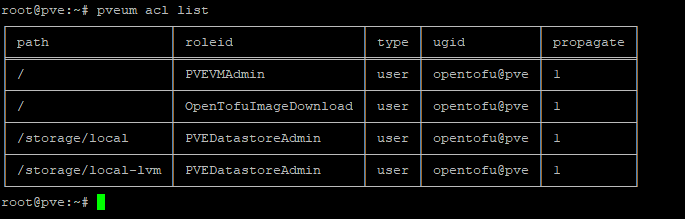
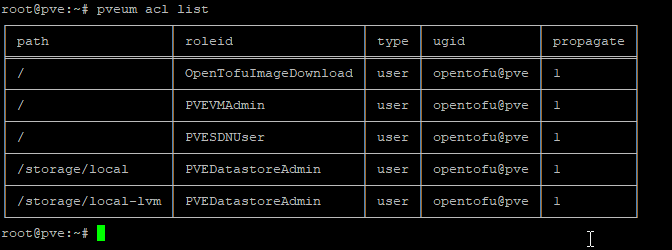
updated docu

Changed region(s): [[0.0, 0.0, 0.9688, 0.9863]]

diff --git a/stage02/docs/Stage-02 Automated Installation.md b/stage02/docs/Stage-02 Automated Installation.md
@@ -14,39 +14,39 @@
 
 Update the machine:
 
-``` bash
+```bash
 sudo apt update
 sudo apt upgrade
 ```
 
 Install unzip, cosign, curl and git:
 
-``` bash
+```bash
 sudo apt install unzip cosign curl git
 ```
 
 Install the Talos control binary:
 
-``` bash
+```bash
 curl -sL https://talos.dev/install | sh
 ```
 
 Download kubectl:
 
-``` bash
+```bash
 curl -LO "https://dl.k8s.io/release/$(curl -L -s https://dl.k8s.io/release/stable.txt)/bin/linux/amd64/kubectl"
 ```
 
 Make the binary executable and move it to `/usr/local/bin`:
 
-``` bash
+```bash
 sudo install -o root -g root -m 0755 kubectl /usr/local/bin/kubectl
 rm kubectl
 ```
 
 Install Helm:
 
-``` bash
+```bash
 curl -fsSL -o get_helm.sh https://raw.githubusercontent.com/helm/helm/main/scripts/get-helm-4
 chmod 700 get_helm.sh
 ./get_helm.sh
@@ -55,7 +55,7 @@ rm get_helm.sh
 
 Install Cilium CLI:
 
-``` bash
+```bash
 CILIUM_CLI_VERSION=$(curl -s https://raw.githubusercontent.com/cilium/cilium-cli/main/stable.txt)
 CLI_ARCH=amd64
 curl -L --fail --remote-name-all https://github.com/cilium/cilium-cli/releases/download/${CILIUM_CLI_VERSION}/cilium-linux-${CLI_ARCH}.tar.gz{,.sha256sum}
@@ -66,13 +66,13 @@ rm cilium-linux-${CLI_ARCH}.tar.gz{,.sha256sum}
 
 Install OpenTofu:
 
-``` bash
+```bash
 curl --proto '=https' --tlsv1.2 -fsSL https://get.opentofu.org/install-opentofu.sh -o install-opentofu.sh
 ```
 
-Inspect the script, then:
+Inspect the script.
 
-``` bash
+```bash
 chmod +x install-opentofu.sh
 ./install-opentofu.sh --install-method standalone
 rm -f install-opentofu.sh
@@ -84,21 +84,21 @@ Log into the Proxmox node as root via SSH.
 
 Create the Proxmox API user:
 
-``` bash
+```bash
 pveum user add opentofu@pve --comment "OpenTofu automation"
 ```
 
 Create the supplemental role:
 
-``` bash
+```bash
 pveum role add OpenTofuImageDownload -privs "Sys.Audit Sys.Modify Datastore.AllocateTemplate"
 ```
 
-Assign the roles, assuming the datastores are named `local` and
-`local-lvm`:
+Assign the roles, assuming the datastores are named `local` and `local-lvm`:
 
-``` bash
+```bash
 pveum aclmod / -user opentofu@pve -role PVEVMAdmin
+pveum aclmod / -user opentofu@pve -role PVESDNUser
 pveum aclmod / -user opentofu@pve -role OpenTofuImageDownload
 pveum aclmod /storage/local -user opentofu@pve -role PVEDatastoreAdmin
 pveum aclmod /storage/local-lvm -user opentofu@pve -role PVEDatastoreAdmin
@@ -106,175 +106,156 @@ pveum aclmod /storage/local-lvm -user opentofu@pve -role PVEDatastoreAdmin
 
 Check the ACLs:
 
-``` bash
+```bash
 pveum acl list
 ```
 
-![Proxmox ACL list showing the OpenTofu roles and datastore
-permissions](images/proxmox-acl-list.png)
+![Proxmox ACL list showing the OpenTofu user roles](images/proxmox-acl-list.png)
 
 Create the API token:
 
-``` bash
+```bash
 pveum user token add opentofu@pve opentofu --privsep 0
 ```
 
-Save the returned token secret. With `--privsep 0`, the token uses the
-permissions of its backing user.
+Save the returned token secret. With `--privsep 0`, the token uses the permissions of its backing user.
 
 ![Proxmox API token creation output](images/proxmox-api-token.png)
 
-Create a separate Linux/PAM account on every Proxmox node on which the
-provider may perform SSH operations:
+Create a separate Linux/PAM account on every Proxmox node on which the provider may perform SSH operations:
 
-``` bash
+```bash
 useradd --create-home --shell /bin/bash opentofu
 ```
 
 Install sudo:
 
-``` bash
+```bash
 apt update
 apt install sudo
 ```
 
 On the **deployment machine**, generate the SSH key:
 
-``` bash
+```bash
 ssh-keygen -t ed25519 -a 100 -f ~/.ssh/proxmox_opentofu -C "opentofu-proxmox"
 ```
 
 Then on each Proxmox node:
 
-``` bash
+```bash
 install -d -m 700 -o opentofu -g opentofu /home/opentofu/.ssh
 ```
 
 Put the contents of:
 
-``` text
+```text
 ~/.ssh/proxmox_opentofu.pub
 ```
 
 from the deployment machine into:
 
-``` text
+```text
 /home/opentofu/.ssh/authorized_keys
 ```
 
 Set the ownership and permissions explicitly:
 
-``` bash
+```bash
 chown opentofu:opentofu /home/opentofu/.ssh/authorized_keys
 chmod 600 /home/opentofu/.ssh/authorized_keys
 ```
 
 Add user to sudoers:
 
-``` bash
+```bash
 visudo -f /etc/sudoers.d/opentofu
 ```
 
 Add:
 
-``` text
+```text
 opentofu ALL=(root) NOPASSWD: /usr/sbin/pvesm
 opentofu ALL=(root) NOPASSWD: /usr/sbin/qm
 ```
 
 Set permissions:
 
-``` bash
+```bash
 chmod 0440 /etc/sudoers.d/opentofu
 visudo --check
 ```
 
-![Successful sudoers validation](images/sudoers-validation.png)
+![Successful visudo validation](images/sudoers-validation.png)
 
 On the deployment machine, start an SSH agent and load the key:
 
-``` bash
+```bash
 eval "$(ssh-agent -s)"
 ssh-add ~/.ssh/proxmox_opentofu
 ```
 
-![SSH agent started and Proxmox OpenTofu key
-loaded](images/ssh-agent-key-loaded.png)
+![SSH agent with the Proxmox OpenTofu key loaded](images/ssh-agent-key-loaded.png)
 
 Test normal SSH:
 
-``` bash
+```bash
 ssh opentofu@192.168.200.53
 ```
 
-![Successful SSH connection to the Proxmox
-node](images/proxmox-ssh-test.png)
+![Successful SSH login to the Proxmox node](images/proxmox-ssh-login.png)
 
 Exit, then test the exact passwordless sudo behavior the provider needs:
 
-``` bash
+```bash
 ssh opentofu@192.168.200.53 sudo pvesm apiinfo
 ```
 
-![Successful passwordless pvesm API
-test](images/passwordless-pvesm-test.png)
+![Successful passwordless pvesm API test](images/passwordless-pvesm-test.png)
 
 ## Run the automation
 
-The infrastructure is split into independently managed root modules with
-separate state files:
+The infrastructure is split into independently managed root modules with separate state files:
 
 - `image/` downloads and owns the Talos image in Proxmox.
-- `vms/` creates Talos VMs and reads the image file ID from
-  `image/terraform.tfstate`.
-- `talos/` configures and bootstraps Talos, then produces the Kubernetes
-  credentials.
-- `cilium/` installs Cilium with Helm and waits for the complete cluster
-  to become healthy.
-- `cilium-config/` configures the Cilium load-balancer IP pool and L2
-  announcements.
+- `vms/` creates Talos VMs and reads the image file ID from `image/terraform.tfstate`.
+- `talos/` configures and bootstraps Talos, then produces the Kubernetes credentials.
+- `cilium/` installs Cilium with Helm and waits for the complete cluster to become healthy.
+- `cilium-config/` configures the Cilium load-balancer IP pool and L2 announcements.
 
-Destroying one root does not automatically destroy resources owned by
-another root.
+Destroying one root does not automatically destroy resources owned by another root.
 
 ### Clone repo
 
-``` bash
+```bash
 git clone https://github.com/johannes-kuhfuss/shost.git
 ```
 
 ### Credentials
 
-The image and VM roots use the provider-native `PROXMOX_VE_API_TOKEN`
-environment variable. The VM root also uses the local SSH agent with the
-Linux user configured by `proxmox_ssh_username`.
+The image and VM roots use the provider-native `PROXMOX_VE_API_TOKEN` environment variable. The VM root also uses the local SSH agent with the Linux user configured by `proxmox_ssh_username`.
 
-Source the environment helper from the repository root. It securely prompts for
-the full API token when `PROXMOX_VE_API_TOKEN` is not already set, starts an SSH
-agent when needed, and loads the deployment key:
+Edit the setup script and add your Proxmox token, then execute the script:
 
-``` bash
+```bash
 source stage02/infra/scripts/setup-opentofu-env.sh
 ```
-
-The provider does not read `~/.ssh/config`.
 
 ### Configuration
 
 Go to the base folder:
 
-``` bash
+```bash
 cd stage02/infra/opentofu/
 ```
 
-Copy any missing variable files from their examples. Existing variable files
-are left unchanged:
+Copy the example files using the script:
 
-``` bash
+```bash
 ../scripts/copy-opentofu-tfvars.sh
 ```
 
-Edit them and fill in the correct values.
+Edit the files (`terraform.tfvars`) and fill in the correct values.
 
 ### Apply
 
@@ -282,27 +263,15 @@ Initialize and apply the roots in dependency order.
 
 Download the image first:
 
-``` bash
+```bash
 tofu -chdir=image init
-```
-
-![Successful OpenTofu initialization of the image
-root](images/opentofu-image-init.png)
-
-``` bash
 tofu -chdir=image plan
-```
-
-![OpenTofu plan for creating the Talos
-image](images/opentofu-image-plan.png)
-
-``` bash
 tofu -chdir=image apply
 ```
 
 Create the VMs:
 
-``` bash
+```bash
 tofu -chdir=vms init
 tofu -chdir=vms plan
 tofu -chdir=vms apply
@@ -310,7 +279,7 @@ tofu -chdir=vms apply
 
 Install Talos:
 
-``` bash
+```bash
 tofu -chdir=talos init
 tofu -chdir=talos plan
 tofu -chdir=talos apply
@@ -318,7 +287,7 @@ tofu -chdir=talos apply
 
 Install Cilium:
 
-``` bash
+```bash
 tofu -chdir=cilium init
 tofu -chdir=cilium plan
 tofu -chdir=cilium apply
@@ -326,7 +295,7 @@ tofu -chdir=cilium apply
 
 Configure Cilium:
 
-``` bash
+```bash
 tofu -chdir=cilium-config init
 tofu -chdir=cilium-config plan
 tofu -chdir=cilium-config apply
@@ -334,10 +303,9 @@ tofu -chdir=cilium-config apply
 
 ### Store talosconfig and kubeconfig
 
-**Caution:** this will overwrite an existing `talosconfig` and
-`kubeconfig`.
+> **Caution:** this will overwrite an existing `talosconfig` and `kubeconfig`.
 
-``` bash
+```bash
 install -d -m 700 ~/.talos ~/.kube
 tofu -chdir=talos output -raw talosconfig > ~/.talos/config
 tofu -chdir=talos output -raw kubeconfig > ~/.kube/config
@@ -346,14 +314,11 @@ chmod 600 ~/.talos/config ~/.kube/config
 
 ## Tests
 
-TBD
-
 ## Clean-up
 
-Destroy in reverse order so Helm can still reach the Kubernetes API
-while uninstalling Cilium:
+Destroy in reverse order so Helm can still reach the Kubernetes API while uninstalling Cilium:
 
-``` bash
+```bash
 tofu -chdir=cilium-config destroy
 tofu -chdir=cilium destroy
 tofu -chdir=talos destroy
